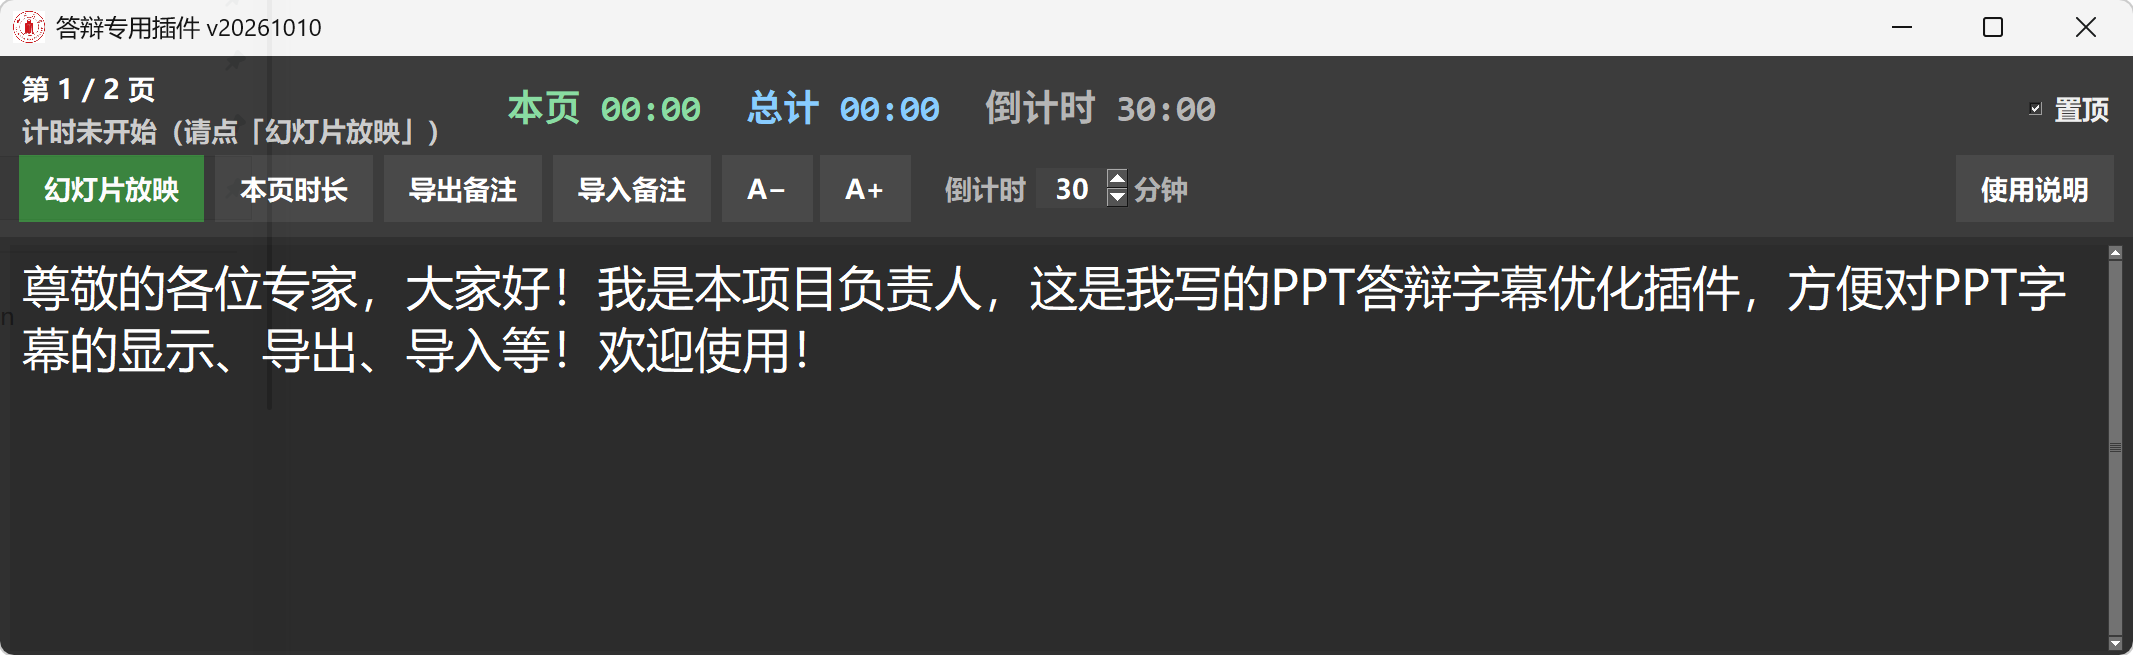
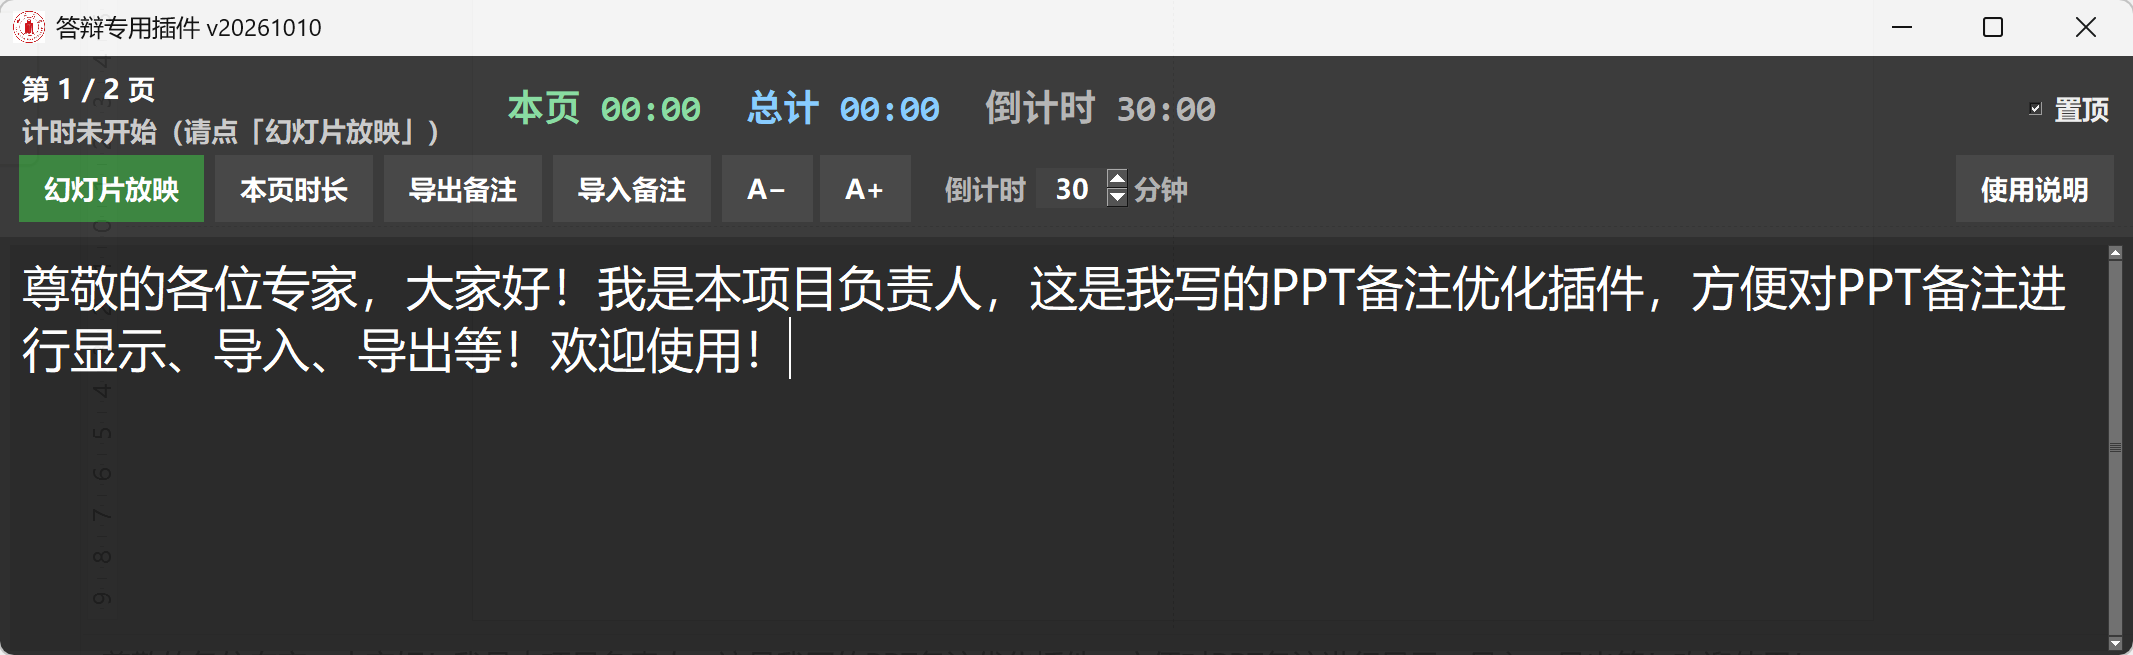
rename: 产品名改为 PPT答辩备注优化插件
- 默认标题、打包 exe 名与 APPDATA 配置目录统一更名
- 更新 README 截图与相关说明

Changed region(s): [[0.0, 0.4885, 0.3713, 0.5802], [0.6188, 0.3969, 0.9902, 0.4885]]

diff --git a/notes_overlay.py b/notes_overlay.py
@@ -1,6 +1,6 @@
 # -*- coding: utf-8 -*-
 """
-答辩专用插件 — PowerPoint 浮动备注 + 排练计时
+PPT答辩备注优化插件 — PowerPoint 浮动备注 + 排练计时
 
 放映时置顶显示当前页备注；支持字号调节、备注导出 Word。
 翻页使用 PowerPoint 原生快捷键。
@@ -41,7 +41,7 @@ RECONNECT_SEC = 1.0
 EMPTY_REATTACH_SEC = 1.5
 # 8 位日期；scripts/build_exe.py 打包时自动改为当天
 APP_VERSION = "20261010"
-DEFAULT_APP_TITLE = "答辩专用插件"
+DEFAULT_APP_TITLE = "PPT答辩备注优化插件"
 CONFIG_FILE_NAME = "config.json"
 DEFAULT_COUNTDOWN_MIN = 30
 COUNTDOWN_FG = "#b0b0b0"
@@ -86,12 +86,12 @@ _config_path_cache: Path | None = None
 
 
 def config_path() -> Path:
-    """优先 exe 同目录；该目录不可写时退到 %APPDATA%\\答辩专用插件。"""
+    """优先 exe 同目录；该目录不可写时退到 %APPDATA%\\PPT答辩备注优化插件。"""
     global _config_path_cache
     if _config_path_cache is not None:
         return _config_path_cache
     local = app_dir()
-    appdata = Path(os.environ.get("APPDATA") or Path.home()) / "答辩专用插件"
+    appdata = Path(os.environ.get("APPDATA") or Path.home()) / "PPT答辩备注优化插件"
     chosen = local / CONFIG_FILE_NAME
     if not chosen.exists():
         if (appdata / CONFIG_FILE_NAME).exists() or not _dir_writable(local):

diff --git a/scripts/build_exe.py b/scripts/build_exe.py
@@ -1,5 +1,5 @@
 # -*- coding: utf-8 -*-
-"""打包答辩专用插件为单文件 exe（供 .bat / .ps1 调用）。"""
+"""打包 PPT答辩备注优化插件 为单文件 exe（供 .bat / .ps1 调用）。"""
 
 from __future__ import annotations
 
@@ -10,7 +10,7 @@ import sys
 from pathlib import Path
 
 ROOT = Path(__file__).resolve().parent.parent
-EXE_BASE_NAME = "答辩专用插件"
+EXE_BASE_NAME = "PPT答辩备注优化插件"
 _VERSION_RE = re.compile(r'^APP_VERSION\s*=\s*"[^"]*"', re.M)
 
 
@@ -65,7 +65,7 @@ def main() -> int:
     exe_name = f"{EXE_BASE_NAME}_v{stamp_app_version()}"
     dist = ROOT / "dist"
     # 清掉旧版本 exe，dist 里只留本次产物
-    for old in dist.glob("*答辩专用插件*.exe"):
+    for old in dist.glob("*答辩*插件*.exe"):
         old.unlink()
     run(
         [

diff --git a/README.md b/README.md
@@ -1,4 +1,4 @@
-# PPT答辩字幕优化插件
+# PPT答辩备注优化插件
 
 Windows 下的 PowerPoint 答辩/录屏辅助工具：放映时置顶显示当前页备注，并提供排练计时与备注导出。
 
@@ -48,13 +48,13 @@ python notes_overlay.py
 
 ```json
 {
-  "app_title": "答辩专用插件",
+  "app_title": "PPT答辩备注优化插件",
   "countdown_min": 30
 }
 ```
 
 - 开发运行：改源码目录里的 `config.json`
-- 打包 exe：分发时只需发 exe；首次运行会在 exe 同目录自动生成 `config.json`，该目录不可写时改存到 `%APPDATA%\答辩专用插件\config.json`
+- 打包 exe：分发时只需发 exe；首次运行会在 exe 同目录自动生成 `config.json`，该目录不可写时改存到 `%APPDATA%\PPT答辩备注优化插件\config.json`
 
 ## 打包成 exe
 
@@ -72,7 +72,7 @@ powershell -ExecutionPolicy Bypass -File scripts\build_exe.ps1
 python scripts\build_exe.py
 ```
 
-产物：`dist\答辩专用插件_vYYYYMMDD.exe`。版本号为 v + 8 位日期，打包时自动写入 `notes_overlay.py` 的 `APP_VERSION`，窗口标题、右下角标签和 exe 文件名同步显示。
+产物：`dist\PPT答辩备注优化插件_vYYYYMMDD.exe`。版本号为 v + 8 位日期，打包时自动写入 `notes_overlay.py` 的 `APP_VERSION`，窗口标题、右下角标签和 exe 文件名同步显示。
 
 ## 目录结构
 
